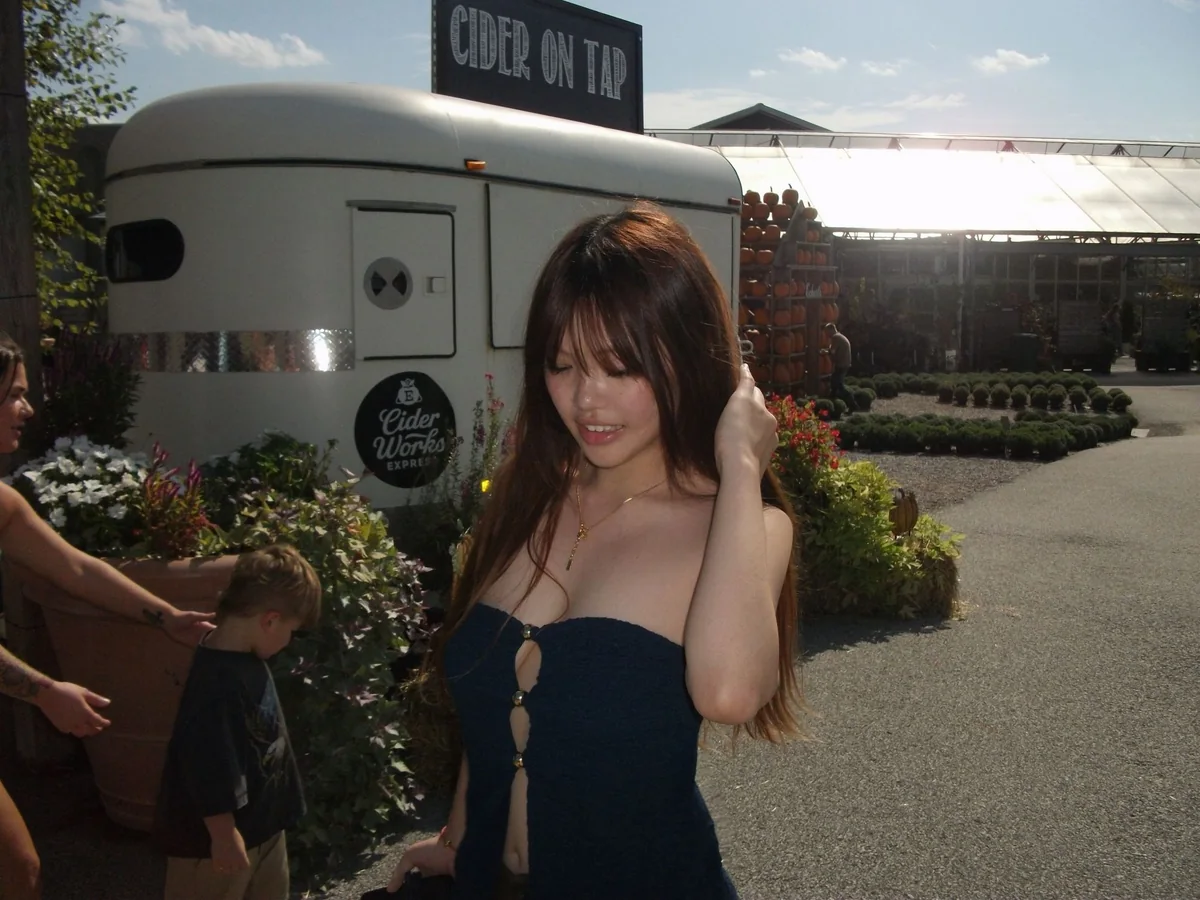
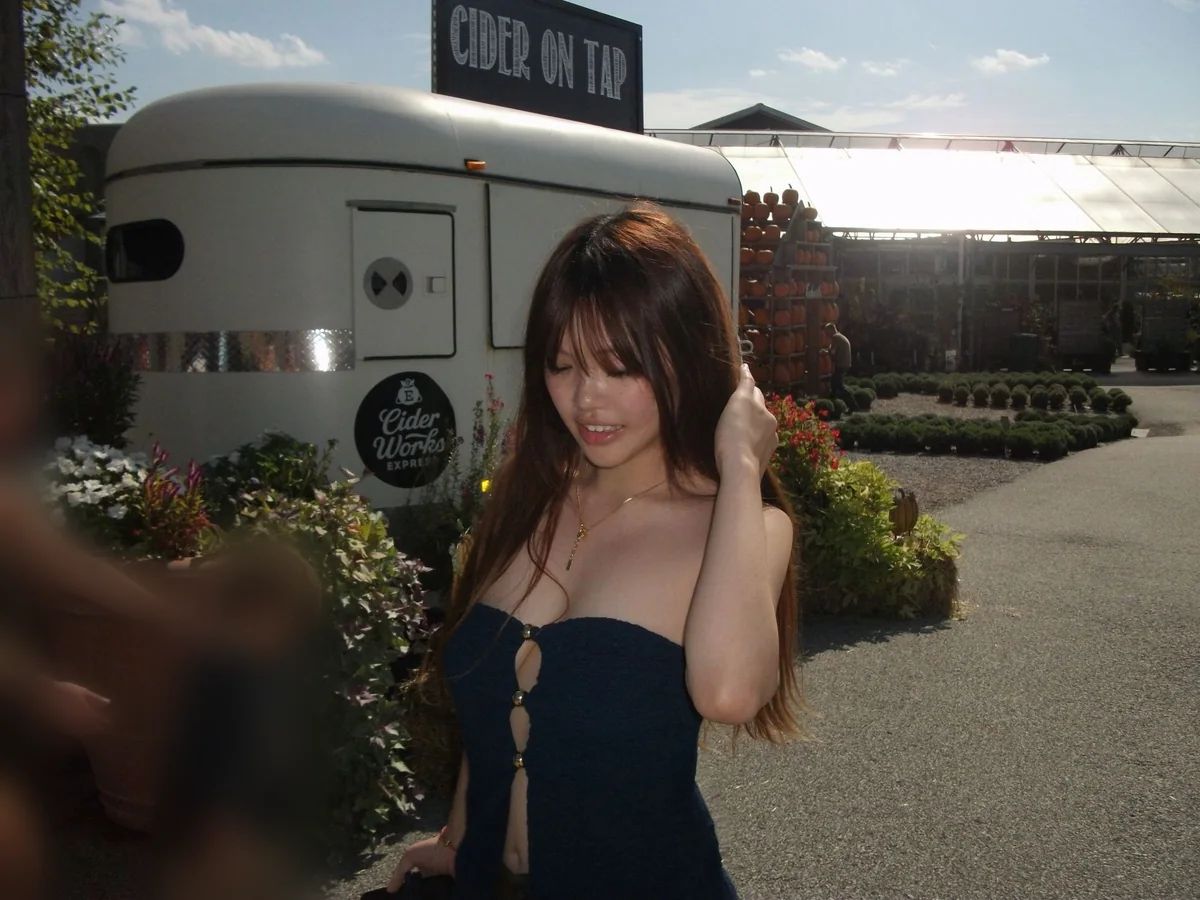
About photo: blur the two bystanders at the left (a woman and a child); Kay untouched

diff --git a/CLAUDE.md b/CLAUDE.md
@@ -8,7 +8,7 @@ Everything that matters lives in **`merge/`**. `stack/`, `lanterns/`, `descent/`
 
 1. **Camera = Léo (leoparpeix.com).** Position is a *linear* function of page scroll (`camYAt(s) = -RATE * s`, `s = scroll / 100vh`), everywhere, even while paper covers the world. Rotation is fixed forever (`CAMERA.pitch`, no yaw, no mouse orbit). The header dollies down 2.0 and forward 4 over its 200vh. The only smoothing is Lenis (lerp .1). It clamps just after the landing: it sinks `TIGER.glb.settle` further (`settleMobile` on phones) so the grass and the whole sitting tiger are in frame. Before any scroll there is the opening (Kay, 2026-09-27, replacing the 000→100 loader; a film opening in beats since 2026-10-01; rewritten 2026-10-06 — the paper split read as elevator doors): a title card (her name, set like a credit: `COPY.nav.sub` / `name` / `tagline`) holds on paper while the tiger loads → it folds away and the tiger drops onto the bright paper out of its own contact shadow (a close shot, in a happy white light — key and hemi forced white while `ENTRY.k === 0`), bounces twice and waves hello → suddenly black → a small white line at the bottom middle, `COPY.entry.dark` ("- who turned the light off? -", `#dark-line`) → the alley, the camera `OPENING.zoom` units back and dollying in to the rail's first position over the next two beats (`ENTRY.zoom`): its lamp (`ALLEY.lamp`, a spot on an arm off the pier, with a visible cone) blinks twice with the whole room and holds (`FLICK.alley`) → the alley comes up around it (sky, key, hemi from half) → the nav and the scroll hint rise, the tiger nods down the ladder twice → scrolling starts (`ENTRY` / `entryTick` in `app.js`, beats `OPENING` in `content.js`: card → cardOut → drop → wave → black → line → beam → rise → done; `entryTo` carries each transition's side effects; it plays itself — a click, scroll or key hurries it; `?snap` skips it unless `&entry=1`; `node merge/tools/opening.js` steps through it). The top of the world is a back alley after school (Kay, 2026-10-06): `THEMES.stone` is dusk-dark (`ink: 'light'`, so the nav is paper over it), the header statement (`COPY.header.statement`) is sprayed on the back wall as a tag (`graffitiTexture`, the Sedgwick Ave Display face, `ALLEY.tag`) and the DOM statement is only for screen readers. A click before the GLB has loaded waits for it (the card holds, up to 12 s; the placeholder rig never shows in the opening); the page and nav are `inert` until the opening ends; a reload always starts at the top (`history.scrollRestoration = 'manual'`). One exception (Kay, 2026-09-26): in front of the computer on floor 03 the camera holds still for (projects − 1) screens while the previews slide, so `camYAt` is piecewise-linear with that one plateau (Léo's camera also holds under his long papers).
 2. **Tiger = Laurens (laurens.art).** The tiger keeps one place on the right of the frame (hips glued to the camera: `hips.y = camera.y - LAY.glue`). Every locomotion state is *scrubbed by scroll* — `idle → turnToWall → overEdge → climbing (loop) → landing → turnAround → sit` in `app.js`, each a pure function of the scroll phase. Only idle bits (breathing, blink, ears, tail, the wave) run on time. It glances at each project as it arrives and looks back over its shoulder on hover/click. It climbs one ladder from the top platform to the meadow through every floor. Since 2026-09-27 the tiger is Kay's own model (Tripo → Mixamo): `assets/tiger/tiger.glb` with one clip per state, `action.time` set from the same scroll phases (the climb clip is the Mixamo climb-up played backwards, its time a function of the hips height so planted feet stay on rungs). The procedural `Rig` is the fallback until the GLB loads, if it fails, or with `?rig`. The GLB tiger has no blink, ear or tail rig; its breathing is in the idle clips. The one exception to scroll-scrubbing is the meadow's talent show (Kay, 2026-09-27): it runs on time and may take the tiger off its spot. The catwalk's heading and length are planned when it starts (`planWalk`, with the live camera: hips clear of the pier and rails, the whole body in frame, off the shore words on wide screens; on phones the walk is shortened). Scrolling away mid-act eases it out in 0.4 s.
-3. **Paper / world alternation (Léo).** DOM paper blocks (hero, the floors' full-screen title blocks, footer) scroll 1:1 over the WebGL world; the world is visible in the "windows". Never two white blocks in a row (Kay, 2026-09-26): the value statements are not paper — each is revealed char by char over the room at the end of its window (Léo's library statement), paper-coloured in dark rooms; since 2026-10-01 each floor says it its own way (`FLOOR_STYLE.value`): the workshop stamps the letters on, the bar's flicker on like neon (and keep a glow), the computer types them behind a block cursor. Since 2026-09-27 the intro is a window too: the tiger leans off the ladder toward you beside the **about-me dialogue box** (Kay, 2026-10-06, after Disco Elysium's panel, replacing the typed speech bubble): a rigid paper box, sticky through the intro window, with her whole photo at the top of the log (`assets/about/kay.webp`, never cropped — Kay, 2026-10-07; it scrolls up with the conversation) and her name under it; the visitor picks a question (click or keys 1–9) and the answer joins the log; the personal questions are locked, Disco Elysium-grey, until the visitor has opened 3 projects (`>! 3 |`, `PROG.seen`, `dlgRefresh` on every `markSeen`), the first questions are about the work (`%floors` / `%tools` are filled from the live lineup and the approved write-ups' software; `-> go:title0` scrolls there). The script is `COPY.intro.script` in `_site.json` (the Studio's Site text), a small grammar parsed by `app.js → parseScript` (nodes `# id`, choices `> … -> id`, dice checks `>? chance | [SKILL — …] … -> id | fail line`, `* hub`); the 王威虎 story is the dice-check easter egg. The box is not paper in the rule-3 sense: the room shows around it. The archives are see-through (88% paper + blur, darker secondary ink for contrast), not a white block. Statements reveal char by char; other text uses masked line reveals (SplitText) with the `reveal` ease `cubic-bezier(.4,0,0,1)`.
+3. **Paper / world alternation (Léo).** DOM paper blocks (hero, the floors' full-screen title blocks, footer) scroll 1:1 over the WebGL world; the world is visible in the "windows". Never two white blocks in a row (Kay, 2026-09-26): the value statements are not paper — each is revealed char by char over the room at the end of its window (Léo's library statement), paper-coloured in dark rooms; since 2026-10-01 each floor says it its own way (`FLOOR_STYLE.value`): the workshop stamps the letters on, the bar's flicker on like neon (and keep a glow), the computer types them behind a block cursor. Since 2026-09-27 the intro is a window too: the tiger leans off the ladder toward you beside the **about-me dialogue box** (Kay, 2026-10-06, after Disco Elysium's panel, replacing the typed speech bubble): a rigid paper box, sticky through the intro window, with her whole photo at the top of the log (`assets/about/kay.webp`, never cropped — Kay, 2026-10-07; it scrolls up with the conversation; the two bystanders at its left are blurred with a feathered mask, Kay untouched — the original and the blurred full-size copy are in the gitignored `assets/src/about/`) and her name under it; the visitor picks a question (click or keys 1–9) and the answer joins the log; the personal questions are locked, Disco Elysium-grey, until the visitor has opened 3 projects (`>! 3 |`, `PROG.seen`, `dlgRefresh` on every `markSeen`), the first questions are about the work (`%floors` / `%tools` are filled from the live lineup and the approved write-ups' software; `-> go:title0` scrolls there). The script is `COPY.intro.script` in `_site.json` (the Studio's Site text), a small grammar parsed by `app.js → parseScript` (nodes `# id`, choices `> … -> id`, dice checks `>? chance | [SKILL — …] … -> id | fail line`, `* hub`); the 王威虎 story is the dice-check easter egg. The box is not paper in the rule-3 sense: the room shows around it. The archives are see-through (88% paper + blur, darker secondary ink for contrast), not a white block. Statements reveal char by char; other text uses masked line reveals (SplitText) with the `reveal` ease `cubic-bezier(.4,0,0,1)`.
 4. **Projects are frameless.** No card, no border, no background. Each project is its cut-out object floating in the room (`.card figure`), with a soft drop shadow; its number and name announce themselves beside it (masked rise) when it reaches the middle of the screen (Kay, 2026-10-01; `.card.on`), the rest of the words come *beside* it on hover/focus in plain ink (or paper on dark floors; always on phones). Its entrance is scrubbed by scroll (`cardFrame`): it rises out of its shadow, turns a little as it passes, sinks on the way out, and the ones not in the middle step back. Each floor shows its work its own way (`FLOOR_STYLE.show`): the workshop prints the part out of its line drawing, bottom up behind an orange print head (`<slug>-line.webp` from `merge/tools/lines.py`; `lineImg` on the piece), the bar finds each object in the dark with a spotlight that clacks on, the computer's previews step back when not in front and the screen powers on like a CRT as the floor arrives. Click/Enter opens the detail panel, which slides in from the left while the tiger stays visible on the right; the object itself flies into the panel (into the write-up's cover when that is the same cut-out, else `figure.obj` at the panel's top right) and back to its spot on close (`fly`). Since 2026-10-05 (Kay) the panel is a window the reader can stretch: the grip on its right edge (`#panel-grip`; drag, ← → / Home / End, double-click = the whole screen and back; `setPanelW`, `--panel-w`, kept in localStorage `kooky.panelW`, from a third of the screen to all of it; none on phones) — and a write-up opens on its **short version** (`brief`: problem / solution / impact, plus the tools from `software`; about 30 s) with a tab to **the whole process** (`renderWriteup` → `.wu-tabs`, `wuView`; the reading time of each stands beside its name; labels `COPY.panel`). A write-up without a `brief` opens on the process as before. The short version only repeats the blocks — never a fact that isn't in one.
 5. **Three floors, and the Studio decides who stands on them.** Since 2026-10-01 the lineup is the Studio's: a project is on the site when its write-up is ● Approved and ticked “on the site”, on the floor she picked, in her order (the Studio's sidebar; ↑ ↓ beside the floor moves it) — `app.js → applyLineup` builds `PIECES` and each floor's `pieces` from `WRITEUPS`; a floor she empties is not built and the rest renumber; content.js's own lineup is only the fallback when nothing is approved. `SECTIONS` in `content.js` (each with the Studio's floor `id`): 01 ENGINEERING (workshop, light) → 02 DESIGN & INTERACTION (night bar, dark) → 03 ANALYTICS & STRATEGY (one big beige desktop computer, dark). Rhythm per section: the title block (`TITLE_SCREENS` = 1: a full-screen paper block, compact type — Kay, 2026-10-01; she tried and dropped elevator doors the same day) → the room with its projects → the value statement over the room. The floor change happens behind the paper: the camera passes the slab (which stops 2.7 in front of the lens, with a hatch for the ladder) at `crossS` (the block covering the screen), the room's skin blends across ±0.35 screens (`themeAt`), and as the paper lifts the new room is dark (`LIGHTS.dark` × its ambient light): its lamps and glowing props click on one by one (`LIGHTS.on`, after the paper has gone; neon stutters, bulbs pop), and every lamp further down stays off until it rises into the frame, so the whole descent keeps lighting up (`lampK`; scrolling back switches them off). The lift's display (`#lift`, bottom left, `liftFrame`) shows the floor number (it rolls at each slab), the floor's name and the depth (the camera's y), from floor 1's title block to the archives. On floor 03 the projects live on the computer's screen (`deck: true`): a horizontal strip of previews on a fixed DOM overlay (`#deck`) laid over the projected 3D glass every frame; page scroll slides it one preview per screen during the camera hold; ← → keys, horizontal trackpad and drag also move it; click opens the same detail panel. The desk has one leg, at its far left, and rests against the pier, so the meadow under it stays open for the landing and the talent show. Title blocks (`.paper`, z-index 4) cover the computer's overlay (`#deck`, z-index 3). Nav and project text flip to paper colour inside dark rooms (Léo's rule); on the landed meadow the nav splits (`nav-split`): brand and links in paper over the dark wall, the right-hand links in ink over the pier.
 6. **Ending.** After the third floor: the archives (see-through) → the meadow window (`MEADOW_SCREENS`; the landing is `LAND_AT` screens into it): the sky flips light, "THE OTHER SHORE" arrives with the landing and stays pinned (`--pin`, the camera is clamped), the tiger steps off the ladder a little left and forward onto the grass (`TIGER.glb.xGround`, `zGround`: the stage, clear of the pier and the rails; grass and flowers keep off it), turns to face you and sits; its gaze follows the cursor; "psst — click me" (not on phones, where it covered the button); clicking it, or the "Ask for a trick" button beside Say hi (`#trick`, the keyboard way in), opens the talent show (Dance / Zombie / Catwalk, `PERF` in `app.js`, only on the meadow; a group of buttons, Escape closes it and focus goes back) → then the footer paper. Clicking or tapping the tiger casts a ray from the click itself (window listener), so it works through the paper/window sections and on phones.
